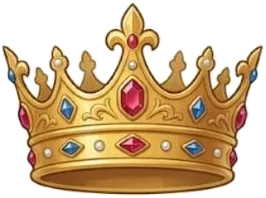
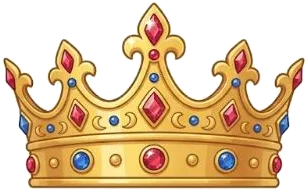
Hrdina z vrstev pořádně: ploché koruny na vlasech, meč v pěsti za rukojeť, kůň vlevo a mazlíček vpravo; zvířátka: botička na každé tlapce, pláštíky za zády; nová verze cache
Claude-Session: https://claude.ai/code/session_016cKgCi1QvsGMteN4UTfsoF

diff --git a/index.html b/index.html
@@ -274,11 +274,11 @@ h3{color:#fff;text-shadow:0 2px 0 #5a3415,0 0 6px rgba(0,0,0,.35);font-size:24px
 /* images */
 .av{position:relative;display:flex;align-items:flex-end;justify-content:center;width:100%;aspect-ratio:240/250;max-width:240px;margin:0 auto}
 .av img.main{max-height:96%;max-width:92%;object-fit:contain;filter:drop-shadow(0 6px 4px rgba(0,0,0,.25));position:relative;z-index:1}
-.av .hfig{position:relative;display:block;height:84%;align-self:flex-end;margin-bottom:3%;max-width:92%;z-index:1;filter:drop-shadow(0 6px 4px rgba(0,0,0,.25))}
+.av .hfig{position:relative;display:block;height:78%;align-self:flex-end;margin-bottom:3%;max-width:70%;margin-right:24%;z-index:1;filter:drop-shadow(0 6px 4px rgba(0,0,0,.25))}
 .av .hfig img.hb{position:absolute;inset:0;width:100%;height:100%;object-fit:contain;z-index:1}
 .av .hfig img.hacc{position:absolute;height:auto}
 .anim .av .hfig.main{animation:breath 3.2s ease-in-out infinite;transform-origin:50% 100%}
-.av img.comp{position:absolute;left:0;bottom:2%;width:24%;z-index:2;filter:drop-shadow(0 3px 2px rgba(0,0,0,.3))}
+.av img.comp{position:absolute;right:1%;left:auto;bottom:2%;width:20%;z-index:2;filter:drop-shadow(0 3px 2px rgba(0,0,0,.3))}
 .av.glow::before{content:"";position:absolute;inset:5%;background:radial-gradient(circle,#fff6b0 0,transparent 65%);z-index:0}
 .anim .av img.main{animation:breath 3.2s ease-in-out infinite;transform-origin:50% 100%}
 .monimg{width:100%;height:100%;object-fit:contain;filter:drop-shadow(0 6px 4px rgba(0,0,0,.3))}
@@ -366,10 +366,10 @@ h3 .muted{color:#fff8e6;opacity:.9;text-shadow:0 1px 0 #5a3415}
 .sw{width:40px;height:40px;border-radius:50%;border:3px solid #fff;box-shadow:0 0 0 2px #b88a4a;cursor:pointer;padding:0;font-size:18px}
 .sw.on{box-shadow:0 0 0 4px #e8323c;transform:scale(1.1)}.sw.orig{background:#fff7e6}
 .av.rider{align-items:flex-end;justify-content:flex-end}
-.av.rider img.horse{position:absolute;left:-7%;bottom:0;width:48%;max-height:60%;object-fit:contain;object-position:left bottom;z-index:1;filter:drop-shadow(0 6px 4px rgba(0,0,0,.25))}
-.av.rider .hfig.riderimg{position:relative;height:78%;margin-right:6%;z-index:2}
+.av.rider img.horse{position:absolute;left:-6%;bottom:0;width:42%;max-height:56%;object-fit:contain;object-position:left bottom;z-index:1;filter:drop-shadow(0 6px 4px rgba(0,0,0,.25))}
+.av.rider .hfig.riderimg{position:relative;height:76%;margin-right:23%;max-width:44%;z-index:2}
 .anim .av.rider .hfig.riderimg{animation:breath 3.2s ease-in-out infinite;transform-origin:50% 100%}
-.av.rider img.comp{left:27%;right:auto;width:18%;z-index:3}
+.av.rider img.comp{right:0;left:auto;width:17%;z-index:3}
 .spgrid{display:grid;grid-template-columns:repeat(3,1fr);gap:8px}
 .emo.gone{opacity:.28;filter:grayscale(1);position:relative}.emo.gone::after{content:'';position:absolute;left:10%;right:10%;top:50%;border-top:3px solid #e8323c;transform:rotate(-30deg)}
 .addpic{display:flex;align-items:center;justify-content:center;gap:10px;margin:6px 0}.addpic .grp{display:grid;grid-template-columns:repeat(5,auto);gap:2px 3px;background:#fff7e6;border:2px dashed #e8c06a;border-radius:12px;padding:3px 5px}.addpic .emo{font-size:22px;line-height:1.15}.addpic .op{font:900 34px Nunito,sans-serif;color:#5a3412}
@@ -1739,9 +1739,11 @@ m6:[148,316,.09,.684,.903,.689,.493,.676,.074,.912],m7:[149,316,.097,.682,.89,.6
   f0:[152,323,.083,.703,.825,.703,.457,.599,.14,.8],f1:[151,323,.083,.7,.824,.703,.454,.603,.14,.8],f2:[153,323,.083,.703,.825,.703,.454,.595,.14,.8],f3:[154,323,.083,.695,.833,.699,.458,.591,.12,.8],f4:[152,323,.083,.692,.831,.693,.461,.592,.1,.82],f5:[155,323,.083,.703,.833,.695,.465,.594,.11,.82]};
 const HEAD_GEO={m:[.235,.9],f:[.255,.86]}; // obočí (zlomek výšky), šířka pokrývky hlavy (zlomek šířky)
 const USE_LAYERS=true;
+const WGRIP={1:[.417,.842],2:[.48,.82],3:[.49,.829],4:[.492,.836],5:[.49,.836],6:[.51,.842],7:[.492,.805],8:[.487,.808],9:[.504,.751]};
 const BOOT_COL={1:'#7a4a22',2:'#8f99a6',3:'#e6edf7',4:'#c8321e',5:'#7fbfff'}; // kožené, rytířské (ocel), okřídlené (stříbrné), dračí, hvězdné
 // [šířka × šířka hlavy, posun spodní hrany nad obočí (zlomek výšky postavy)] – koruny jsou menší a sedí na vlasech
-const HEAD_FIT={4:[1.08,0],5:[.72,.035],7:[.74,.035]};
+// [šířka × šířka hlavy, posun spodní hrany nad obočí] – ploché koruny sedí pásem na vlasech nad čelem
+const HEAD_FIT={4:[1.08,0],5:[1.0,.03],7:[1.0,.03]};
 function heroFigLayers(p, cls){
   const g=p.gender==='f'?'f':'m', e=p.eq||{}, l=lookOf(p), ar=Math.max(0,Math.min(7,e.armor||0)), k=g+ar;
   const [W,H,lx,ly,rx,ry,fc,fw,t0,t1]=BODY[k], [brow,hw]=HEAD_GEO[g], cx=fc;
@@ -1749,7 +1751,8 @@ function heroFigLayers(p, cls){
   if(e.cape){ const cw=1.06; back+=accImg('i_cape'+e.cape, l.cape, `left:${(fc-cw/2)*100}%;top:36%;width:${cw*100}%;z-index:0`); }
   // boty: obarví se vlastní obuv postavy podle druhu bot (nic se nepřekrývá)
   const lb=Object.assign({}, l); if(e.boots) lb.boots=l.boots||BOOT_COL[e.boots]; else delete lb.boots;
-  if(e.weapon){ const wh=.5; front+=accImg('i_weapon'+e.weapon, l.weapon, `left:${lx*100}%;top:${(ly-wh*.86)*100}%;height:${wh*100}%;width:auto;transform:translateX(-50%) rotate(-22deg);transform-origin:50% 86%;z-index:3`, '__allg'); }
+  // zbraň: svislá verze hwN, rukojeť [x,y] přesně v levé pěsti; zbraň je ZA tělem, takže pěst překrývá rukojeť
+  if(e.weapon){ const [gx,gy]=WGRIP[e.weapon]||[.5,.83], wh=.52; back+=accImg('hw'+e.weapon, l.weapon, `left:${lx*100}%;top:${(ly-wh*gy)*100}%;height:${wh*100}%;width:auto;transform:translateX(${-gx*100}%) rotate(-14deg);transform-origin:${gx*100}% ${gy*100}%;z-index:1`, '__allg'); }
   if(e.shield){ front+=accImg('i_shield'+e.shield, l.shield, `left:${rx*100}%;top:${ry*100}%;width:62%;transform:translate(-42%,-58%);z-index:4`, '__allg'); }
   if(e.head){ const [hs,up]=HEAD_FIT[e.head]||[1,0], w=hw*hs; front+=accImg('hd'+e.head, l.head, `left:${cx*100}%;bottom:${(1-brow+up)*100}%;width:${w*100}%;transform:translateX(-50%);z-index:5`, '__allg'); }
   return `<span class="hfig ${cls}" style="aspect-ratio:${W}/${H}">${back}${tintImg('body_'+k, 'body_'+g, lb, 'class="hb"')}${front}</span>`;
@@ -1787,6 +1790,10 @@ const PET_ANCH = {
  rat_0:[.47,.12,.55,0.52,.35,.86,.45,.40], rat_1:[.42,.10,.50,0.48,.35,.86,.42,.40], hamster_0:[.50,.08,.85,.52,.70,.95,.50,.55], hamster_1:[.50,.07,.85,.48,.70,.95,.50,.55],
  fox_0:[.45,.10,.70,.55,.40,.95,.42,.42], fox_1:[.42,.08,.60,.45,.35,.96,.40,.40], panda_0:[.50,.08,.75,0.52,.60,.90,.50,.60], panda_1:[.50,.06,.70,0.46,.55,.90,.50,.60],
  owl_0:[.50,.05,.80,0.48,.60,.95,.50,.50], owl_1:[.50,.05,.70,0.43,.60,.95,.50,.50], dragon_0:[.50,.10,.55,0.5,.35,.95,.50,.45], dragon_1:[.50,.10,.50,.42,.30,.90,.50,.45]};
+// přední tlapky a tělo zvířátek: [střed levé, střed pravé, šířka tlapky, spodek tlapek, levý a pravý okraj těla v 70 %] – ověřeno na zvětšených výřezech
+const PET_PAW={"cat_0":[.315,.563,.17,.997,.131,.757],"dog_0":[.338,.649,.17,.997,.191,.947],"bunny_0":[.371,.613,.17,.997,.183,.812],"pony_0":[.302,.517,.14,.997,.177,.65],"rat_0":[.22,.69,.17,.91,.144,.796],"hamster_0":[.18,.82,.17,.997,.036,.976],"fox_0":[.326,.553,.13,.997,.198,.687],"panda_0":[.17,.83,.16,.997,.139,.861],"owl_0":[.3,.68,.17,.994,.016,.98],"dragon_0":[.37,.61,.16,.997,.287,.707],
+ "cat_1":[.3,.57,.17,.935,.1,.78],"dog_1":[.252,.575,.17,.998,.066,.77],"bunny_1":[.349,.593,.18,.998,.128,.826],"pony_1":[.297,.523,.145,.998,.113,.709],"rat_1":[.16,.69,.16,.9,.031,.779],"hamster_1":[.17,.81,.165,.998,.011,.986],"fox_1":[.3,.523,.13,.995,.135,.69],"panda_1":[.184,.808,.17,.998,.09,.906],"owl_1":[.29,.69,.18,.998,.04,.955],"dragon_1":[.365,.6,.16,.91,.188,.791]};
+const PET_SHOE_DIM={1:[111,159,1],2:[110,159,1],3:[158,158,.66],4:[112,160,1],5:[113,163,1]}; // [šířka, výška, podíl samotné boty na šířce] jedné botičky pshN
 const PET_DIM = {cat_0:[251,360],cat_1:[230,420],dog_0:[283,360],dog_1:[274,420],bunny_0:[186,360],bunny_1:[195,420],pony_0:[260,360],pony_1:[265,420],rat_0:[250,360],rat_1:[258,420],hamster_0:[248,360],hamster_1:[279,420],fox_0:[262,360],fox_1:[260,420],panda_0:[280,360],panda_1:[299,420],owl_0:[246,360],owl_1:[247,420],dragon_0:[300,360],dragon_1:[282,420]};
 const ov=(src,l,t,w,z,extra='')=>`<img class="ov" src="${A_}${src}.webp" alt="" style="left:${(l*100).toFixed(1)}%;top:${(t*100).toFixed(1)}%;width:${(w*100).toFixed(1)}%;z-index:${z};${extra}">`;
 const ovb=(src,l,b,w,z,extra='')=>`<img class="ov" src="${A_}${src}.webp" alt="" style="left:${(l*100).toFixed(1)}%;bottom:${(b*100).toFixed(1)}%;width:${(w*100).toFixed(1)}%;z-index:${z};${extra}">`;
@@ -1799,11 +1806,17 @@ if(USE_PET_IMG) petSVG = function(p, opts={}){ const pl=p.look||{};
   const ar=W/H; // poměr obrázku
   let wrap=`<img class="main" src="${A_}pet_${k}.webp" alt="" style="z-index:3">`;
   // vše v % šířky (left,width) a výšky (top) obalu zvířátka
-  if(e.outfit===3||e.outfit===5) wrap+=ovc(pl.p_outfit,'pa_outfit'+e.outfit, hx-hw*.55, ny-.06, hw*1.1, 1);
+  // pláštíky (hrdinský i královský) vlají za zády a vykukují po obou stranách
+  { const pp=PET_PAW[k], half=pp?Math.min(hx-pp[4],pp[5]-hx):hw*.55;
+    if(e.outfit===3){ const w=half*2*1.62; wrap+=ovc(pl.p_outfit,'pa_outfit3', hx-w/2, ny-.07, w, 1); }
+    if(e.outfit===5){ const w=half*2*1.62; wrap+=ovc(pl.p_outfit,'pa_outfit5', hx-w/2, ny-.07, w, 1); } }
   if(e.outfit===2||e.outfit===4){ const w=nw*1.7; wrap+=ovc(pl.p_outfit,'pa_outfit'+e.outfit, hx-w/2, ny-.03, w, 4); }
   if(e.collar && e.outfit!==1){ const w=Math.min(.6,nw*1.05); wrap+=ovc(pl.p_collar,'pa_collarf'+e.collar, hx-w/2, ny-.035, w, 5); }
   if(e.outfit===1){ const w=Math.min(.6,nw*1.15); wrap+=ovc(pl.p_outfit,'pa_outfit1', hx-w/2, ny-w*ar*1.19*.15, w, 5); }
-  if(e.shoes){ const w=fw*.85; wrap+=ovc(pl.p_shoes,'pa_shoes'+e.shoes, fx-w/2, fy-w*ar*.9*.8, w, 6); }
+  const pw=PET_PAW[k];
+  if(e.shoes && pw && PET_SHOE_DIM[e.shoes]){ const [sw,sh,bf]=PET_SHOE_DIM[e.shoes], w=pw[2]*1.3/bf, h=w*ar*sh/sw;
+    for(const [cxp,flip] of [[pw[0],1],[pw[1],0]]) wrap+=ovc(pl.p_shoes,'psh'+e.shoes, cxp-w/2, pw[3]-h*.97, w, 6, flip?'transform:scaleX(-1)':''); }
+  else if(e.shoes){ const w=fw*.85; wrap+=ovc(pl.p_shoes,'pa_shoes'+e.shoes, fx-w/2, fy-w*ar*.9*.8, w, 6); }
   if(e.phat){ const w=hw*.5; wrap+=ovc(pl.p_phat,'pa_phat'+e.phat, hx-w/2, ht-w*ar*.78*.72, w, 6); }
   let out='';
   if(e.pbed) out+=ovbc(pl.p_pbed,'pa_pbed'+e.pbed, .12, 0, .76, 0);

diff --git a/src/part_img.js b/src/part_img.js
@@ -13,9 +13,11 @@ m6:[148,316,.09,.684,.903,.689,.493,.676,.074,.912],m7:[149,316,.097,.682,.89,.6
   f0:[152,323,.083,.703,.825,.703,.457,.599,.14,.8],f1:[151,323,.083,.7,.824,.703,.454,.603,.14,.8],f2:[153,323,.083,.703,.825,.703,.454,.595,.14,.8],f3:[154,323,.083,.695,.833,.699,.458,.591,.12,.8],f4:[152,323,.083,.692,.831,.693,.461,.592,.1,.82],f5:[155,323,.083,.703,.833,.695,.465,.594,.11,.82]};
 const HEAD_GEO={m:[.235,.9],f:[.255,.86]}; // obočí (zlomek výšky), šířka pokrývky hlavy (zlomek šířky)
 const USE_LAYERS=true;
+const WGRIP={1:[.417,.842],2:[.48,.82],3:[.49,.829],4:[.492,.836],5:[.49,.836],6:[.51,.842],7:[.492,.805],8:[.487,.808],9:[.504,.751]};
 const BOOT_COL={1:'#7a4a22',2:'#8f99a6',3:'#e6edf7',4:'#c8321e',5:'#7fbfff'}; // kožené, rytířské (ocel), okřídlené (stříbrné), dračí, hvězdné
 // [šířka × šířka hlavy, posun spodní hrany nad obočí (zlomek výšky postavy)] – koruny jsou menší a sedí na vlasech
-const HEAD_FIT={4:[1.08,0],5:[.72,.035],7:[.74,.035]};
+// [šířka × šířka hlavy, posun spodní hrany nad obočí] – ploché koruny sedí pásem na vlasech nad čelem
+const HEAD_FIT={4:[1.08,0],5:[1.0,.03],7:[1.0,.03]};
 function heroFigLayers(p, cls){
   const g=p.gender==='f'?'f':'m', e=p.eq||{}, l=lookOf(p), ar=Math.max(0,Math.min(7,e.armor||0)), k=g+ar;
   const [W,H,lx,ly,rx,ry,fc,fw,t0,t1]=BODY[k], [brow,hw]=HEAD_GEO[g], cx=fc;
@@ -23,7 +25,8 @@ function heroFigLayers(p, cls){
   if(e.cape){ const cw=1.06; back+=accImg('i_cape'+e.cape, l.cape, `left:${(fc-cw/2)*100}%;top:36%;width:${cw*100}%;z-index:0`); }
   // boty: obarví se vlastní obuv postavy podle druhu bot (nic se nepřekrývá)
   const lb=Object.assign({}, l); if(e.boots) lb.boots=l.boots||BOOT_COL[e.boots]; else delete lb.boots;
-  if(e.weapon){ const wh=.5; front+=accImg('i_weapon'+e.weapon, l.weapon, `left:${lx*100}%;top:${(ly-wh*.86)*100}%;height:${wh*100}%;width:auto;transform:translateX(-50%) rotate(-22deg);transform-origin:50% 86%;z-index:3`, '__allg'); }
+  // zbraň: svislá verze hwN, rukojeť [x,y] přesně v levé pěsti; zbraň je ZA tělem, takže pěst překrývá rukojeť
+  if(e.weapon){ const [gx,gy]=WGRIP[e.weapon]||[.5,.83], wh=.52; back+=accImg('hw'+e.weapon, l.weapon, `left:${lx*100}%;top:${(ly-wh*gy)*100}%;height:${wh*100}%;width:auto;transform:translateX(${-gx*100}%) rotate(-14deg);transform-origin:${gx*100}% ${gy*100}%;z-index:1`, '__allg'); }
   if(e.shield){ front+=accImg('i_shield'+e.shield, l.shield, `left:${rx*100}%;top:${ry*100}%;width:62%;transform:translate(-42%,-58%);z-index:4`, '__allg'); }
   if(e.head){ const [hs,up]=HEAD_FIT[e.head]||[1,0], w=hw*hs; front+=accImg('hd'+e.head, l.head, `left:${cx*100}%;bottom:${(1-brow+up)*100}%;width:${w*100}%;transform:translateX(-50%);z-index:5`, '__allg'); }
   return `<span class="hfig ${cls}" style="aspect-ratio:${W}/${H}">${back}${tintImg('body_'+k, 'body_'+g, lb, 'class="hb"')}${front}</span>`;
@@ -61,6 +64,10 @@ const PET_ANCH = {
  rat_0:[.47,.12,.55,0.52,.35,.86,.45,.40], rat_1:[.42,.10,.50,0.48,.35,.86,.42,.40], hamster_0:[.50,.08,.85,.52,.70,.95,.50,.55], hamster_1:[.50,.07,.85,.48,.70,.95,.50,.55],
  fox_0:[.45,.10,.70,.55,.40,.95,.42,.42], fox_1:[.42,.08,.60,.45,.35,.96,.40,.40], panda_0:[.50,.08,.75,0.52,.60,.90,.50,.60], panda_1:[.50,.06,.70,0.46,.55,.90,.50,.60],
  owl_0:[.50,.05,.80,0.48,.60,.95,.50,.50], owl_1:[.50,.05,.70,0.43,.60,.95,.50,.50], dragon_0:[.50,.10,.55,0.5,.35,.95,.50,.45], dragon_1:[.50,.10,.50,.42,.30,.90,.50,.45]};
+// přední tlapky a tělo zvířátek: [střed levé, střed pravé, šířka tlapky, spodek tlapek, levý a pravý okraj těla v 70 %] – ověřeno na zvětšených výřezech
+const PET_PAW={"cat_0":[.315,.563,.17,.997,.131,.757],"dog_0":[.338,.649,.17,.997,.191,.947],"bunny_0":[.371,.613,.17,.997,.183,.812],"pony_0":[.302,.517,.14,.997,.177,.65],"rat_0":[.22,.69,.17,.91,.144,.796],"hamster_0":[.18,.82,.17,.997,.036,.976],"fox_0":[.326,.553,.13,.997,.198,.687],"panda_0":[.17,.83,.16,.997,.139,.861],"owl_0":[.3,.68,.17,.994,.016,.98],"dragon_0":[.37,.61,.16,.997,.287,.707],
+ "cat_1":[.3,.57,.17,.935,.1,.78],"dog_1":[.252,.575,.17,.998,.066,.77],"bunny_1":[.349,.593,.18,.998,.128,.826],"pony_1":[.297,.523,.145,.998,.113,.709],"rat_1":[.16,.69,.16,.9,.031,.779],"hamster_1":[.17,.81,.165,.998,.011,.986],"fox_1":[.3,.523,.13,.995,.135,.69],"panda_1":[.184,.808,.17,.998,.09,.906],"owl_1":[.29,.69,.18,.998,.04,.955],"dragon_1":[.365,.6,.16,.91,.188,.791]};
+const PET_SHOE_DIM={1:[111,159,1],2:[110,159,1],3:[158,158,.66],4:[112,160,1],5:[113,163,1]}; // [šířka, výška, podíl samotné boty na šířce] jedné botičky pshN
 const PET_DIM = {cat_0:[251,360],cat_1:[230,420],dog_0:[283,360],dog_1:[274,420],bunny_0:[186,360],bunny_1:[195,420],pony_0:[260,360],pony_1:[265,420],rat_0:[250,360],rat_1:[258,420],hamster_0:[248,360],hamster_1:[279,420],fox_0:[262,360],fox_1:[260,420],panda_0:[280,360],panda_1:[299,420],owl_0:[246,360],owl_1:[247,420],dragon_0:[300,360],dragon_1:[282,420]};
 const ov=(src,l,t,w,z,extra='')=>`<img class="ov" src="${A_}${src}.webp" alt="" style="left:${(l*100).toFixed(1)}%;top:${(t*100).toFixed(1)}%;width:${(w*100).toFixed(1)}%;z-index:${z};${extra}">`;
 const ovb=(src,l,b,w,z,extra='')=>`<img class="ov" src="${A_}${src}.webp" alt="" style="left:${(l*100).toFixed(1)}%;bottom:${(b*100).toFixed(1)}%;width:${(w*100).toFixed(1)}%;z-index:${z};${extra}">`;
@@ -73,11 +80,17 @@ if(USE_PET_IMG) petSVG = function(p, opts={}){ const pl=p.look||{};
   const ar=W/H; // poměr obrázku
   let wrap=`<img class="main" src="${A_}pet_${k}.webp" alt="" style="z-index:3">`;
   // vše v % šířky (left,width) a výšky (top) obalu zvířátka
-  if(e.outfit===3||e.outfit===5) wrap+=ovc(pl.p_outfit,'pa_outfit'+e.outfit, hx-hw*.55, ny-.06, hw*1.1, 1);
+  // pláštíky (hrdinský i královský) vlají za zády a vykukují po obou stranách
+  { const pp=PET_PAW[k], half=pp?Math.min(hx-pp[4],pp[5]-hx):hw*.55;
+    if(e.outfit===3){ const w=half*2*1.62; wrap+=ovc(pl.p_outfit,'pa_outfit3', hx-w/2, ny-.07, w, 1); }
+    if(e.outfit===5){ const w=half*2*1.62; wrap+=ovc(pl.p_outfit,'pa_outfit5', hx-w/2, ny-.07, w, 1); } }
   if(e.outfit===2||e.outfit===4){ const w=nw*1.7; wrap+=ovc(pl.p_outfit,'pa_outfit'+e.outfit, hx-w/2, ny-.03, w, 4); }
   if(e.collar && e.outfit!==1){ const w=Math.min(.6,nw*1.05); wrap+=ovc(pl.p_collar,'pa_collarf'+e.collar, hx-w/2, ny-.035, w, 5); }
   if(e.outfit===1){ const w=Math.min(.6,nw*1.15); wrap+=ovc(pl.p_outfit,'pa_outfit1', hx-w/2, ny-w*ar*1.19*.15, w, 5); }
-  if(e.shoes){ const w=fw*.85; wrap+=ovc(pl.p_shoes,'pa_shoes'+e.shoes, fx-w/2, fy-w*ar*.9*.8, w, 6); }
+  const pw=PET_PAW[k];
+  if(e.shoes && pw && PET_SHOE_DIM[e.shoes]){ const [sw,sh,bf]=PET_SHOE_DIM[e.shoes], w=pw[2]*1.3/bf, h=w*ar*sh/sw;
+    for(const [cxp,flip] of [[pw[0],1],[pw[1],0]]) wrap+=ovc(pl.p_shoes,'psh'+e.shoes, cxp-w/2, pw[3]-h*.97, w, 6, flip?'transform:scaleX(-1)':''); }
+  else if(e.shoes){ const w=fw*.85; wrap+=ovc(pl.p_shoes,'pa_shoes'+e.shoes, fx-w/2, fy-w*ar*.9*.8, w, 6); }
   if(e.phat){ const w=hw*.5; wrap+=ovc(pl.p_phat,'pa_phat'+e.phat, hx-w/2, ht-w*ar*.78*.72, w, 6); }
   let out='';
   if(e.pbed) out+=ovbc(pl.p_pbed,'pa_pbed'+e.pbed, .12, 0, .76, 0);

diff --git a/src/part_theme.css b/src/part_theme.css
@@ -72,11 +72,11 @@ h3{color:#fff;text-shadow:0 2px 0 #5a3415,0 0 6px rgba(0,0,0,.35);font-size:24px
 /* images */
 .av{position:relative;display:flex;align-items:flex-end;justify-content:center;width:100%;aspect-ratio:240/250;max-width:240px;margin:0 auto}
 .av img.main{max-height:96%;max-width:92%;object-fit:contain;filter:drop-shadow(0 6px 4px rgba(0,0,0,.25));position:relative;z-index:1}
-.av .hfig{position:relative;display:block;height:84%;align-self:flex-end;margin-bottom:3%;max-width:92%;z-index:1;filter:drop-shadow(0 6px 4px rgba(0,0,0,.25))}
+.av .hfig{position:relative;display:block;height:78%;align-self:flex-end;margin-bottom:3%;max-width:70%;margin-right:24%;z-index:1;filter:drop-shadow(0 6px 4px rgba(0,0,0,.25))}
 .av .hfig img.hb{position:absolute;inset:0;width:100%;height:100%;object-fit:contain;z-index:1}
 .av .hfig img.hacc{position:absolute;height:auto}
 .anim .av .hfig.main{animation:breath 3.2s ease-in-out infinite;transform-origin:50% 100%}
-.av img.comp{position:absolute;left:0;bottom:2%;width:24%;z-index:2;filter:drop-shadow(0 3px 2px rgba(0,0,0,.3))}
+.av img.comp{position:absolute;right:1%;left:auto;bottom:2%;width:20%;z-index:2;filter:drop-shadow(0 3px 2px rgba(0,0,0,.3))}
 .av.glow::before{content:"";position:absolute;inset:5%;background:radial-gradient(circle,#fff6b0 0,transparent 65%);z-index:0}
 .anim .av img.main{animation:breath 3.2s ease-in-out infinite;transform-origin:50% 100%}
 .monimg{width:100%;height:100%;object-fit:contain;filter:drop-shadow(0 6px 4px rgba(0,0,0,.3))}
@@ -164,10 +164,10 @@ h3 .muted{color:#fff8e6;opacity:.9;text-shadow:0 1px 0 #5a3415}
 .sw{width:40px;height:40px;border-radius:50%;border:3px solid #fff;box-shadow:0 0 0 2px #b88a4a;cursor:pointer;padding:0;font-size:18px}
 .sw.on{box-shadow:0 0 0 4px #e8323c;transform:scale(1.1)}.sw.orig{background:#fff7e6}
 .av.rider{align-items:flex-end;justify-content:flex-end}
-.av.rider img.horse{position:absolute;left:-7%;bottom:0;width:48%;max-height:60%;object-fit:contain;object-position:left bottom;z-index:1;filter:drop-shadow(0 6px 4px rgba(0,0,0,.25))}
-.av.rider .hfig.riderimg{position:relative;height:78%;margin-right:6%;z-index:2}
+.av.rider img.horse{position:absolute;left:-6%;bottom:0;width:42%;max-height:56%;object-fit:contain;object-position:left bottom;z-index:1;filter:drop-shadow(0 6px 4px rgba(0,0,0,.25))}
+.av.rider .hfig.riderimg{position:relative;height:76%;margin-right:23%;max-width:44%;z-index:2}
 .anim .av.rider .hfig.riderimg{animation:breath 3.2s ease-in-out infinite;transform-origin:50% 100%}
-.av.rider img.comp{left:27%;right:auto;width:18%;z-index:3}
+.av.rider img.comp{right:0;left:auto;width:17%;z-index:3}
 .spgrid{display:grid;grid-template-columns:repeat(3,1fr);gap:8px}
 .emo.gone{opacity:.28;filter:grayscale(1);position:relative}.emo.gone::after{content:'';position:absolute;left:10%;right:10%;top:50%;border-top:3px solid #e8323c;transform:rotate(-30deg)}
 .addpic{display:flex;align-items:center;justify-content:center;gap:10px;margin:6px 0}.addpic .grp{display:grid;grid-template-columns:repeat(5,auto);gap:2px 3px;background:#fff7e6;border:2px dashed #e8c06a;border-radius:12px;padding:3px 5px}.addpic .emo{font-size:22px;line-height:1.15}.addpic .op{font:900 34px Nunito,sans-serif;color:#5a3412}

diff --git a/sw.js b/sw.js
@@ -1,5 +1,5 @@
 // Chytrolínci – offline cache (stránka vždy čerstvá ze sítě, obrázky z cache)
-const C='chytrolinci-v2';
+const C='chytrolinci-v3';
 self.addEventListener('install', e=>{ self.skipWaiting(); e.waitUntil(caches.open(C).then(c=>c.addAll(['./','./index.html','./config.js','./manifest.webmanifest','./icon-192.png']).catch(()=>{}))); });
 self.addEventListener('activate', e=>{ e.waitUntil(caches.keys().then(ks=>Promise.all(ks.filter(k=>k!==C).map(k=>caches.delete(k)))).then(()=>self.clients.claim())); });
 self.addEventListener('fetch', e=>{

diff --git a/src/tools/combos_zviratka.py b/src/tools/combos_zviratka.py
@@ -1,0 +1,16 @@
+import asyncio, sys
+from playwright.async_api import async_playwright
+SP=['cat','dog','bunny','pony','rat','hamster','fox','panda','owl','dragon']
+SLOT=sys.argv[1]; N=int(sys.argv[2]); ST=int(sys.argv[3]) if len(sys.argv)>3 else 3
+async def main():
+  async with async_playwright() as p:
+    b=await p.chromium.launch(); pg=await b.new_page(viewport={'width':130*N+40,'height':900},device_scale_factor=2); errs=[]
+    pg.on('pageerror',lambda e: errs.append(str(e)))
+    await pg.route('**/config.js', lambda r: r.fulfill(status=200, content_type='application/javascript', body=''))
+    await pg.route('**/sw.js', lambda r: r.fulfill(status=404, body=''))
+    await pg.goto('http://localhost:8765/index.html'); await pg.wait_for_timeout(500)
+    js="""(a)=>{ const [SP,slot,N,st]=a; document.body.innerHTML=''; document.body.style.background='#bfe3ff'; const w=document.createElement('div'); w.style.cssText='display:grid;grid-template-columns:repeat('+(N+1)+',120px);gap:4px;padding:6px'; document.body.appendChild(w);
+      for(const sp of SP) for(let t=0;t<=N;t++){ const eq={}; if(slot==='mix'){ Object.assign(eq,{collar:1+t%5,phat:1+(t+1)%5,shoes:1+t%5,outfit:1+(t+2)%5}); if(t===0){} } else if(t) eq[slot]=t; const d=document.createElement('div'); d.className='stage'; d.style.cssText='background:linear-gradient(#bfe3ff,#9be08a);border:1px solid #7a4a1d;height:120px'; d.innerHTML=petSVG({species:sp,eq,xp:9999},{stage:st}); w.appendChild(d); } }"""
+    for _ in range(2): await pg.evaluate(js,[SP,SLOT,N,ST]); await pg.wait_for_timeout(900)
+    await pg.screenshot(path=f'/tmp/hs/pet_{SLOT}_{ST}.png',full_page=True); print(errs); await b.close()
+asyncio.run(main())

diff --git a/src/tools/combos_hrdina.py b/src/tools/combos_hrdina.py
@@ -10,7 +10,7 @@ SHEETS={
 }
 async def main():
   async with async_playwright() as p:
-    b=await p.chromium.launch(); pg=await b.new_page(viewport={'width':1500,'height':900}); errs=[]
+    b=await p.chromium.launch(); pg=await b.new_page(viewport={'width':1500,'height':900},device_scale_factor=2); errs=[]
     pg.on('pageerror',lambda e: errs.append(str(e)))
     await pg.add_init_script("localStorage.setItem('ph-intro','1');")
     await pg.route('**/config.js', lambda r: r.fulfill(status=200, content_type='application/javascript', body=''))
